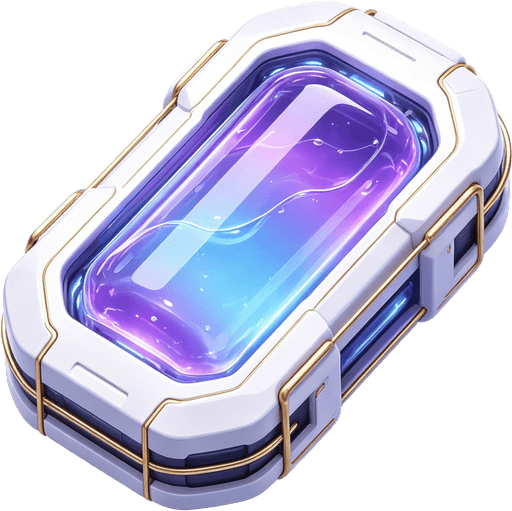
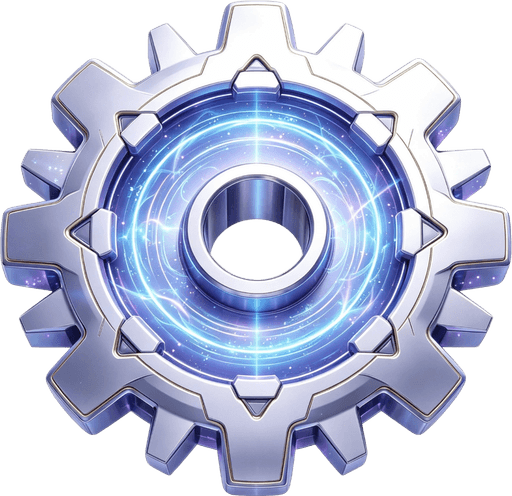
折叠菜单换真玻璃质感、新增贴图接入(翼装/体力/晶石/金币/词条石)、商店铺满12槽位、词条石改版
- 左上角折叠菜单改用真正的半透明玻璃渐变面板(不再是近乎不透明的黑底),4个入口各自一个强调色,
  风格统一但便于区分
- 接入用户提供的新贴图(D:\minigame\TemporaryResources,已用 sharp 压缩到 512px/60-130KB,
  和现有机装图标同一量级):翼装强化槽位图标替换;新增体力/晶石/金币/体力补给包/四种词条石
  贴图,资源条和商店/装备页图标全部换成实图,贴图未加载完时仍有原来的简笔画兜底
- 增长石改名祈福石,价格 60→500 晶石;新增解锁石(30晶石);体力补给包 50→1 金币
- 词条石"锁定"拆成锁定石/解锁石两个独立方向——锁定石只能锁未锁定的一条,解锁石只能解已锁定的
  一条,状态不对直接失败不扣石头;装备详情页对应新增第4个词条石槽位,选中解锁石时高亮"已锁定"
  的副属性图标作为可点目标(和锁定石反过来)
- 兑换码新增 icodex(1000晶石)/ clodex(10金币),沿用 iclaude 同一套可重复兑换机制
- 商店货架固定摆满 4列×3行=12 个槽位,没有商品的位置显示"敬请期待"虚线空槽,不响应点击

diff --git a/src/game.js b/src/game.js
@@ -190,10 +190,11 @@ const game = {
   // RG13:词条石——不再点了立刻生效,改成"先选中(3个方槽,和商店同一套视觉)→下方出描述→确认使用才真正操作"。
   //   锁定石比较特殊,它的"操作对象"是某一条具体的副属性,选中锁定石后副属性行的锁图标才会变成可点的目标,
   //   点哪条就对哪条生效(那一下点击本身就是确认,不需要再多一次"确认使用")。
-  equipStoneKeys() { return ["reroll", "lock", "growth"]; },
+  // RG14:新增解锁石后是4种词条石,4个方槽单行排(比3槽版本更窄一些,字号跟着缩小,详见 drawEquipPicker)
+  equipStoneKeys() { return ["reroll", "lock", "unlock", "growth"]; },
   equipStoneSlotRect(i) {
-    const pane = this.equipDetailPaneRect(), y = this.equipDetailStoneRowY(), slotW = (pane.w - 16) / 3;
-    return { x: pane.x + i * (slotW + 8), y, w: slotW, h: 56 };
+    const pane = this.equipDetailPaneRect(), y = this.equipDetailStoneRowY(), gap = 6, slotW = (pane.w - gap * 3) / 4;
+    return { x: pane.x + i * (slotW + gap), y, w: slotW, h: 56 };
   },
   equipStoneDescRect() { const pane = this.equipDetailPaneRect(), y = this.equipDetailStoneRowY(); return { x: pane.x, y: y + 64, w: pane.w, h: 44 }; },
   equipStoneConfirmRect() { const d = this.equipStoneDescRect(); return { x: d.x, y: d.y + d.h + 4, w: d.w, h: 36 }; },
@@ -224,14 +225,23 @@ const game = {
         return;
       }
       if (this._gearStoneSel === "growth" && inR(this.equipStoneConfirmRect())) {
-        this._gearStoneMsg = this.gearApplyGrowth(selInst.id) ? "副属性数值已提升" : "增长石不足";
+        this._gearStoneMsg = this.gearApplyGrowth(selInst.id) ? "副属性数值已提升" : "祈福石不足";
         this._gearStoneSel = null;
         return;
       }
       if (this._gearStoneSel === "lock") {
         for (let si = 0; si < selInst.subs.length; si++) {
           if (inR(this.equipDetailSubLockRect(si))) {
-            this._gearStoneMsg = this.gearToggleSubLock(selInst.id, si) ? (selInst.subs[si].locked ? "已锁定" : "已解锁") : "锁定石不足";
+            this._gearStoneMsg = this.gearLockSub(selInst.id, si) ? "已锁定" : (selInst.subs[si].locked ? "这条已经是锁定状态" : "锁定石不足");
+            this._gearStoneSel = null;
+            return;
+          }
+        }
+      }
+      if (this._gearStoneSel === "unlock") {
+        for (let si = 0; si < selInst.subs.length; si++) {
+          if (inR(this.equipDetailSubLockRect(si))) {
+            this._gearStoneMsg = this.gearUnlockSub(selInst.id, si) ? "已解锁" : (!selInst.subs[si].locked ? "这条本来就没锁定" : "解锁石不足");
             this._gearStoneSel = null;
             return;
           }
@@ -1153,11 +1163,19 @@ const game = {
     Settings.save();
     return true;
   },
-  // RG12:锁定石——切换某条副属性的锁定态(锁定后 gearApplyReroll 会跳过它),消耗1件不分锁定/解锁方向。
-  gearToggleSubLock(instanceId, subIdx) {
-    const inst = this.gearInstanceById(instanceId); if (!inst || !inst.subs[subIdx]) return false;
+  // RG14:锁定石/解锁石拆成两个独立方向——锁定石只能锁未锁定的一条,解锁石只能解已锁定的一条,
+  //   对象状态不对(比如拿锁定石去点一条已经锁定的)直接失败不扣石头。
+  gearLockSub(instanceId, subIdx) {
+    const inst = this.gearInstanceById(instanceId); if (!inst || !inst.subs[subIdx] || inst.subs[subIdx].locked) return false;
     if (!this.gearStoneConsume("lock", 1)) return false;
-    inst.subs[subIdx].locked = !inst.subs[subIdx].locked;
+    inst.subs[subIdx].locked = true;
+    Settings.save();
+    return true;
+  },
+  gearUnlockSub(instanceId, subIdx) {
+    const inst = this.gearInstanceById(instanceId); if (!inst || !inst.subs[subIdx] || !inst.subs[subIdx].locked) return false;
+    if (!this.gearStoneConsume("unlock", 1)) return false;
+    inst.subs[subIdx].locked = false;
     Settings.save();
     return true;
   },
@@ -1371,18 +1389,20 @@ const game = {
     for (const s of CONFIG.gearSlots) this.gearAward(s.key, "t3");
     Settings.set("gearStarterGranted", true);
   },
-  // RG9:兑换码——由游戏内的"兑换码"页面调用(见 drawRedeemCode),不再用浏览器 window.prompt;不区分大小写/
-  //   首尾空格;命中 "iclaude" 直接发一整套魂能(t3)装备,不做"只能领一次"的限制(用户明确要求可重复获取),
-  //   每次都是全新 roll 的8件,拿来囤重铸材料也说得通。返回是否兑换成功,调用方(UI)自己决定怎么提示。
+  // RG14:兑换码——由游戏内的"兑换码"页面调用(见 RedeemUI),不再用浏览器 window.prompt;不区分大小写/首尾空格;
+  //   命中表按 kind 发放(装备全套 / 晶石 / 金币),都不限制"只能领一次"(用户明确要求可重复获取)。
+  //   返回是否兑换成功,调用方(UI)自己决定怎么提示。
   redeemGearCode(raw) {
     const code = (raw || "").trim().toLowerCase();
     if (!code) return false;
-    if (code === "iclaude") {
-      for (const s of CONFIG.gearSlots) this.gearAward(s.key, "t3");
-      Sound.powerup(); Haptics.powerup();
-      return true;
-    }
-    return false;
+    const grant = CONFIG.redeemCodes[code];
+    if (!grant) return false;
+    if (grant.kind === "gearSet") { for (const s of CONFIG.gearSlots) this.gearAward(s.key, grant.tier); }
+    else if (grant.kind === "crystals") this.crystalsAward(grant.amount);
+    else if (grant.kind === "gold") this.goldAward(grant.amount);
+    else return false;
+    Sound.powerup(); Haptics.powerup();
+    return true;
   },
   // RG9:某槽位仓库里的全部实例,按品阶从高到低、同品阶内主属性从高到低排序——最好的装备排最前面,
   //   仓库/装备弹窗数量多的时候玩家一眼就能看到"我这个槽位最强的是哪件"
@@ -3592,23 +3612,34 @@ const game = {
     ctx.fillStyle = o.color || "#fff"; ctx.font = "bold " + (o.font || 30) + "px 'Segoe UI', sans-serif";
     ctx.fillText(o.fallback, cx, cy + (o.fallbackBaselineAdj != null ? o.fallbackBaselineAdj : 10));
   },
-  drawTitleSmallButton(ctx, r, iconKey, fallbackLabel, text) {
+  drawTitleSmallButton(ctx, r, iconKey, fallbackLabel, text, color = "#adb5bd") {
     const icon = ImageAssets.title("icon-" + iconKey);
-    UI.button(ctx, r, { label: icon ? text : fallbackLabel, color: "#adb5bd", font: 15, radius: 10 });
+    UI.button(ctx, r, { label: icon ? text : fallbackLabel, color, font: 15, radius: 10 });
     if (icon) ImageAssets.draw(ctx, icon, r.x + 21, r.y + r.h / 2, 20);
   },
-  // RG13:折叠菜单——收起态只有一个 ☰ 图标;展开态在它正下方叠一块半透明面板,里面竖排4个小按钮(图鉴/帮助/设置/商店)
+  // RG14:每个菜单项各自一个强调色(风格统一都走玻璃按钮,颜色区分开更好认),drawTitleMenu 展开面板/按钮都按这个取色
+  titleMenuItemColors() { return { codex: "#4dabf7", help: "#38d9a9", settings: "#adb5bd", shop: "#cc5de8" }; },
+  // RG13:折叠菜单——收起态只有一个 ☰ 图标;展开态在它正下方叠一块透明玻璃面板,里面竖排4个小按钮(图鉴/帮助/设置/商店)
+  // RG14:面板改成真正的"玻璃"质感——不再垫近乎不透明的黑底,改用和 UI.panel 同一路的渐变+高光+描边,
+  //   半透明到能隐约看见背后的开屏插画,和其它玻璃按钮(UI.button 的非 active 态)风格统一。
   drawTitleMenu(ctx) {
     const t = this.titleMenuToggleRect();
     UI.button(ctx, t, { label: this._titleMenuOpen ? "✕" : "☰", color: this._titleMenuOpen ? "#ff922b" : "#adb5bd", active: this._titleMenuOpen, font: 20, radius: 12 });
     if (!this._titleMenuOpen) return;
     const panel = this.titleMenuPanelRect();
-    UI.roundRect(ctx, panel.x, panel.y, panel.w, panel.h, 14); ctx.fillStyle = "rgba(8,12,20,.9)"; ctx.fill();
-    UI.panel(ctx, panel.x, panel.y, panel.w, panel.h, 14, { stroke: "rgba(255,255,255,.2)" });
-    this.titleMenuItemDefs().forEach(([key, fallbackLabel, text], i) => this.drawTitleSmallButton(ctx, this.titleMenuItemRect(i), key, fallbackLabel, text));
+    ctx.save(); ctx.shadowColor = "rgba(0,0,0,.35)"; ctx.shadowBlur = 18; ctx.shadowOffsetY = 6;
+    const g = ctx.createLinearGradient(0, panel.y, 0, panel.y + panel.h);
+    g.addColorStop(0, "rgba(255,255,255,.12)"); g.addColorStop(0.4, "rgba(20,28,42,.42)"); g.addColorStop(1, "rgba(8,12,20,.58)");
+    UI.roundRect(ctx, panel.x, panel.y, panel.w, panel.h, 14); ctx.fillStyle = g; ctx.fill();
+    ctx.restore();
+    UI.panel(ctx, panel.x, panel.y, panel.w, panel.h, 14, { top: "rgba(255,255,255,.1)", bottom: "rgba(255,255,255,.02)", stroke: "rgba(255,255,255,.25)" });
+    const colors = this.titleMenuItemColors();
+    this.titleMenuItemDefs().forEach(([key, fallbackLabel, text], i) => this.drawTitleSmallButton(ctx, this.titleMenuItemRect(i), key, fallbackLabel, text, colors[key]));
   },
-  // RG13:体力/晶石/金币资源条——简化占位图标(闪电/菱形/圆币),等确认好显示效果再考虑要不要换真贴图
+  // RG14:体力/晶石/金币资源条——实图优先(ImageAssets.economy),没加载完时退回简化占位图标(闪电/菱形/圆币)
   drawEconomyIcon(ctx, x, y, r, kind, color) {
+    const img = ImageAssets.economy(kind);
+    if (img && ImageAssets.draw(ctx, img, x, y, r * 2.4)) return;
     ctx.save(); ctx.translate(x, y); ctx.strokeStyle = color; ctx.fillStyle = UI.rgba(color, .3); ctx.lineWidth = 2;
     if (kind === "stamina") {
       ctx.beginPath(); ctx.moveTo(-r * 0.15, -r); ctx.lineTo(-r * 0.55, r * 0.15); ctx.lineTo(-r * 0.05, r * 0.15); ctx.lineTo(-r * 0.35, r); ctx.lineTo(r * 0.55, -r * 0.1); ctx.lineTo(r * 0.05, -r * 0.1); ctx.closePath();
@@ -4012,18 +4043,21 @@ const game = {
       let y = pane.y + 76;
       ctx.fillStyle = "#868e96"; ctx.font = "11px 'Segoe UI', sans-serif"; ctx.fillText("主属性", pane.x, y); y += 20;
       this.drawGearStatRow(ctx, pane.x, y, pane.w, rg.main, true); y += 30;
-      const lockMode = this._gearStoneSel === "lock";
+      // RG14:选中锁定石时高亮"可以锁"的(未锁定)那些图标,选中解锁石时高亮"可以解"的(已锁定)那些——
+      //   两种选中态用各自石头的主题色提示,不是同一种蓝
+      const lockMode = this._gearStoneSel === "lock", unlockMode = this._gearStoneSel === "unlock";
+      const pickColor = lockMode ? "#ffd43b" : (unlockMode ? "#74c0fc" : null);
       ctx.fillStyle = "#868e96"; ctx.font = "11px 'Segoe UI', sans-serif";
-      ctx.fillText(lockMode ? "副属性(选中锁定石,点图标锁定/解锁)" : "副属性", pane.x, y); y += 20;
-      // RG13:每条副属性左侧一个小锁图标——只有选中了锁定石才能点(平时只是状态展示,防止误触浪费石头)
+      ctx.fillText(lockMode ? "副属性(点未锁定的图标进行锁定)" : unlockMode ? "副属性(点已锁定的图标进行解锁)" : "副属性", pane.x, y); y += 20;
+      // RG13:每条副属性左侧一个小锁图标——只有选中了锁定/解锁石才能点对应状态的目标(平时只是状态展示,防止误触浪费石头)
       rg.subs.forEach((s, si) => {
         const lockRect = this.equipDetailSubLockRect(si), locked = !!selInst.subs[si].locked;
         const lcx = lockRect.x + lockRect.w / 2, lcy = lockRect.y + lockRect.h / 2 + 2;
+        const isTarget = (lockMode && !locked) || (unlockMode && locked);
         ctx.save();
-        const lockColor = locked ? "#ffd43b" : (lockMode ? "#4dabf7" : "rgba(255,255,255,.4)");
-        ctx.strokeStyle = lockColor; ctx.lineWidth = 1.6;
-        ctx.fillStyle = locked ? UI.rgba("#ffd43b", .3) : (lockMode ? UI.rgba("#4dabf7", .2) : "rgba(255,255,255,.06)");
-        if (lockMode) { const pulse = 0.5 + Math.sin(this.titleT * 5) * 0.5; ctx.shadowColor = "#4dabf7"; ctx.shadowBlur = 4 + pulse * 4; }
+        ctx.strokeStyle = locked ? "#ffd43b" : (isTarget ? pickColor : "rgba(255,255,255,.4)"); ctx.lineWidth = 1.6;
+        ctx.fillStyle = locked ? UI.rgba("#ffd43b", .3) : (isTarget ? UI.rgba(pickColor, .2) : "rgba(255,255,255,.06)");
+        if (isTarget) { const pulse = 0.5 + Math.sin(this.titleT * 5) * 0.5; ctx.shadowColor = pickColor; ctx.shadowBlur = 4 + pulse * 4; }
         UI.roundRect(ctx, lcx - 6, lcy - 5, 12, 9, 2); ctx.fill(); ctx.stroke();
         ctx.beginPath(); ctx.arc(lcx, lcy - 5, 4, Math.PI, 0); ctx.stroke();
         ctx.restore();
@@ -4044,7 +4078,7 @@ const game = {
         const def = CONFIG.gearStoneDefs[this._gearStoneSel];
         ctx.fillStyle = def.color; ctx.font = "11px 'Segoe UI', sans-serif";
         UI.wrapText(ctx, def.desc, descR.w, 2).forEach((line, li) => ctx.fillText(line, descR.x, descR.y + 14 + li * 16));
-        if (this._gearStoneSel !== "lock") {
+        if (this._gearStoneSel !== "lock" && this._gearStoneSel !== "unlock") {
           const canUse = this.gearStoneCount(this._gearStoneSel) > 0;
           UI.button(ctx, this.equipStoneConfirmRect(), { label: "确认使用", color: def.color, active: canUse, font: 13, radius: 8 });
         }
@@ -4706,26 +4740,37 @@ const game = {
   // RG13:标题/资源条/tab 整体下移让位——资源条挪到标题正下方、tab 再挪到资源条下方,不再叠在一起
   shopTabRect(i) { const w = 140, gap = 12, x0 = CONFIG.WIDTH / 2 - (w * 2 + gap) / 2; return { x: x0 + i * (w + gap), y: 96, w, h: 36 }; },
   shopCurrentList() { return this._shopTab === "gold" ? CONFIG.shopItems.gold : CONFIG.shopItems.crystal; },
-  shopGridRect() { return { x: 20, y: 152, w: CONFIG.WIDTH - 40, h: 156 }; },
-  shopSlotRect(i) {
-    const g = this.shopGridRect(), cols = 3, slotW = 140, gap = (g.w - cols * slotW) / (cols - 1);
-    const col = i % cols, row = Math.floor(i / cols);
-    return { x: g.x + col * (slotW + gap), y: g.y + row * 156, w: slotW, h: 140 };
+  // RG14:货架先摆够 4列×3行=12 个槽位(用户明确要求"每行至少4个、至少3行"),商品数不够12就补空槽,
+  //   后续加新商品自动填进空位,布局代码不用再改。
+  SHOP_GRID_COLS: 4, SHOP_GRID_ROWS: 3,
+  shopGridSlotCount() { return this.SHOP_GRID_COLS * this.SHOP_GRID_ROWS; },
+  shopGridRect() {
+    const cols = this.SHOP_GRID_COLS, rows = this.SHOP_GRID_ROWS, slotW = 117, slotH = 118, gap = 9;
+    const w = cols * slotW + (cols - 1) * gap;
+    return { x: CONFIG.WIDTH / 2 - w / 2, y: 152, w, h: rows * slotH + (rows - 1) * gap, cols, rows, slotW, slotH, gap };
   },
-  shopDetailRect() { const g = this.shopGridRect(); return { x: 20, y: g.y + g.h + 20, w: CONFIG.WIDTH - 40, h: 300 }; },
+  shopSlotRect(i) {
+    const g = this.shopGridRect(), col = i % g.cols, row = Math.floor(i / g.cols);
+    return { x: g.x + col * (g.slotW + g.gap), y: g.y + row * (g.slotH + g.gap), w: g.slotW, h: g.slotH };
+  },
+  shopDetailRect() { const g = this.shopGridRect(); return { x: 20, y: g.y + g.h + 20, w: CONFIG.WIDTH - 40, h: 260 }; },
   shopActionRect(i) {
     const d = this.shopDetailRect(), w = (d.w - 20) / 3, h = 46, y = d.y + d.h - h - 16;
     return { x: d.x + i * (w + 10), y, w, h };
   },
-  // RG12/RG13:占位图标——三种石头分别用菱形/锁形/向上箭头简笔画区分,体力包用一个闪电,和贴图上线前的"简化模型"要求一致
+  // RG14:实图优先——体力补给包/四种词条石都已有正式贴图(ImageAssets.economy/stone),画得出来就直接画;
+  //   贴图还没加载完/加载失败时退回原来的简笔画占位(菱形/锁形/箭头/闪电),不会出现空白图标。
   drawShopIcon(ctx, x, y, r, item) {
+    const img = item.kind === "stamina" ? ImageAssets.economy("stamina-pack")
+      : item.stoneKey ? ImageAssets.stone(item.stoneKey) : null;
+    if (img && ImageAssets.draw(ctx, img, x, y, r * 2.3)) return;
     ctx.save(); ctx.translate(x, y); ctx.strokeStyle = item.color; ctx.fillStyle = UI.rgba(item.color, .25); ctx.lineWidth = 2.5;
     if (item.kind === "stamina") {
       ctx.beginPath(); ctx.moveTo(-r * 0.15, -r); ctx.lineTo(-r * 0.55, r * 0.15); ctx.lineTo(-r * 0.05, r * 0.15); ctx.lineTo(-r * 0.35, r); ctx.lineTo(r * 0.55, -r * 0.1); ctx.lineTo(r * 0.05, -r * 0.1); ctx.closePath();
       ctx.fill(); ctx.stroke();
     } else if (item.stoneKey === "reroll") {
       ctx.beginPath(); ctx.moveTo(0, -r); ctx.lineTo(r, 0); ctx.lineTo(0, r); ctx.lineTo(-r, 0); ctx.closePath(); ctx.fill(); ctx.stroke();
-    } else if (item.stoneKey === "lock") {
+    } else if (item.stoneKey === "lock" || item.stoneKey === "unlock") {
       UI.roundRect(ctx, -r * 0.6, -r * 0.1, r * 1.2, r * 0.9, 4); ctx.fill(); ctx.stroke();
       ctx.beginPath(); ctx.arc(0, -r * 0.25, r * 0.4, Math.PI, 0); ctx.stroke();
     } else if (item.stoneKey === "growth") {
@@ -4744,18 +4789,31 @@ const game = {
     ctx.textAlign = "center";
     UI.button(ctx, this.shopTabRect(0), { label: "晶石商店", color: "#7bdfff", active: this._shopTab !== "gold", font: 14, radius: 10 });
     UI.button(ctx, this.shopTabRect(1), { label: "金币商店", color: "#ffd43b", active: this._shopTab === "gold", font: 14, radius: 10 });
-    // 商品格——方形槽位,图标+名称+价格,选中描边高亮
+    // RG14:商品格固定摆满 4×3=12 个槽位——有商品的正常显示(图标/名称/价格/持有),没有商品的画成空槽虚线框占位
+    //   (预告"这里以后会上新东西"),不响应点击。
     const list = this.shopCurrentList();
-    list.forEach((item, i) => {
-      const r = this.shopSlotRect(i), sel = this._shopSelKey === item.key;
+    for (let i = 0; i < this.shopGridSlotCount(); i++) {
+      const r = this.shopSlotRect(i), item = list[i];
+      if (!item) {
+        ctx.save(); ctx.strokeStyle = "rgba(255,255,255,.15)"; ctx.lineWidth = 1.5; ctx.setLineDash([4, 5]);
+        UI.roundRect(ctx, r.x, r.y, r.w, r.h, 12); ctx.stroke(); ctx.setLineDash([]);
+        ctx.beginPath(); ctx.arc(r.x + r.w / 2, r.y + r.h / 2 - 8, 14, 0, Math.PI * 2); ctx.strokeStyle = "rgba(255,255,255,.18)"; ctx.stroke();
+        ctx.font = "18px 'Segoe UI', sans-serif"; ctx.fillStyle = "rgba(255,255,255,.25)"; ctx.textAlign = "center";
+        ctx.fillText("?", r.x + r.w / 2, r.y + r.h / 2 - 2);
+        ctx.restore();
+        ctx.textAlign = "center"; ctx.fillStyle = "rgba(255,255,255,.22)"; ctx.font = "11px 'Segoe UI', sans-serif";
+        ctx.fillText("敬请期待", r.x + r.w / 2, r.y + r.h / 2 + 24);
+        continue;
+      }
+      const sel = this._shopSelKey === item.key;
       UI.panel(ctx, r.x, r.y, r.w, r.h, 12, { accent: item.color });
       if (sel) { ctx.save(); ctx.strokeStyle = item.color; ctx.lineWidth = 2.5; UI.roundRect(ctx, r.x, r.y, r.w, r.h, 12); ctx.stroke(); ctx.restore(); }
-      this.drawShopIcon(ctx, r.x + r.w / 2, r.y + 44, 26, item);
+      this.drawShopIcon(ctx, r.x + r.w / 2, r.y + 36, 20, item);
       ctx.textAlign = "center";
-      ctx.fillStyle = "#fff"; ctx.font = "bold 14px 'Segoe UI', sans-serif"; ctx.fillText(item.name, r.x + r.w / 2, r.y + 90);
-      ctx.fillStyle = item.color; ctx.font = "12px 'Segoe UI', sans-serif"; ctx.fillText(item.price + (item.currency === "gold" ? " 金币" : " 晶石"), r.x + r.w / 2, r.y + 110);
-      if (item.kind === "stone") { ctx.fillStyle = "#868e96"; ctx.font = "10px 'Segoe UI', sans-serif"; ctx.fillText("持有 ×" + this.gearStoneCount(item.stoneKey), r.x + r.w / 2, r.y + 126); }
-    });
+      ctx.fillStyle = "#fff"; ctx.font = "bold 13px 'Segoe UI', sans-serif"; ctx.fillText(item.name, r.x + r.w / 2, r.y + 76);
+      ctx.fillStyle = item.color; ctx.font = "11px 'Segoe UI', sans-serif"; ctx.fillText(item.price + (item.currency === "gold" ? " 金币" : " 晶石"), r.x + r.w / 2, r.y + 94);
+      if (item.kind === "stone") { ctx.fillStyle = "#868e96"; ctx.font = "9px 'Segoe UI', sans-serif"; ctx.fillText("持有 ×" + this.gearStoneCount(item.stoneKey), r.x + r.w / 2, r.y + 108); }
+    }
     // 下半详情区
     const d = this.shopDetailRect(), sel = this._shopSelKey ? this.shopFindItem(this._shopSelKey) : null;
     UI.panel(ctx, d.x, d.y, d.w, d.h, 14, { stroke: "rgba(255,255,255,.18)" });

diff --git a/src/config.js b/src/config.js
@@ -504,23 +504,34 @@ const CONFIG = {
     crystalBase: 15, crystalPerWorld: 3, crystalBossMult: 1.5,
     staminaMax: 100, staminaRegenMinutes: 4, staminaCostLevel: 8, staminaCostSweep: 8,
   },
-  // RG13:商店按货币分两个货架——晶石商店3种刷新石,金币商店目前只有体力补给包(后续再慢慢上架)。
+  // RG14:商店按货币分两个货架——晶石商店4种词条石,金币商店目前只有体力补给包(后续再慢慢上架)。
   //   每件都标 currency 供 game.shopBuy() 判断扣哪种货币。
   shopBatchSize: 5,   // "批量购买"一次最多买几件(实际会按余额封顶,买不够5件就买能买得起的数量)
+  // RG14:货架至少留够 4列×3行=12 个槽位(商店页要求"没有商品的地方显示为空槽"),这里的数组长度不用凑够12——
+  //   不足的由 UI 补空槽,后续往这两个数组里加新条目就会自动填进空位,不用改布局代码。
   shopItems: {
     crystal: [
       { key: "rerollStone", kind: "stone", stoneKey: "reroll", price: 40, currency: "crystals", name: "刷新石", desc: "随机刷新所选装备的3条副属性数值(锁定的不受影响)", color: "#4dabf7" },
-      { key: "lockStone", kind: "stone", stoneKey: "lock", price: 30, currency: "crystals", name: "锁定石", desc: "锁定/解锁一条副属性,锁定后刷新石不会改动它", color: "#ffd43b" },
-      { key: "growthStone", kind: "stone", stoneKey: "growth", price: 60, currency: "crystals", name: "增长石", desc: "让所选装备的3条副属性数值全部提升一截", color: "#51cf66" },
+      { key: "lockStone", kind: "stone", stoneKey: "lock", price: 30, currency: "crystals", name: "锁定石", desc: "锁定一条未锁定的副属性,锁定后刷新石不会改动它", color: "#ffd43b" },
+      { key: "unlockStone", kind: "stone", stoneKey: "unlock", price: 30, currency: "crystals", name: "解锁石", desc: "解锁一条已锁定的副属性", color: "#74c0fc" },
+      { key: "growthStone", kind: "stone", stoneKey: "growth", price: 500, currency: "crystals", name: "祈福石", desc: "让所选装备的3条副属性数值全部提升一截", color: "#51cf66" },
     ],
     gold: [
-      { key: "stamina30", kind: "stamina", amount: 30, price: 50, currency: "gold", name: "体力补给包", desc: "立即恢复30点体力", color: "#38d9a9" },
+      { key: "stamina30", kind: "stamina", amount: 30, price: 1, currency: "gold", name: "体力补给包", desc: "立即恢复30点体力", color: "#38d9a9" },
     ],
   },
   gearStoneDefs: {
     reroll: { name: "刷新石", color: "#4dabf7", desc: "随机刷新这件装备所有未锁定副属性的数值(类型不变,数值在原区间内重新抽)" },
-    lock:   { name: "锁定石", color: "#ffd43b", desc: "选中后点任意一条副属性的锁形图标,切换它的锁定状态(锁定后刷新石不会碰它)" },
-    growth: { name: "增长石", color: "#51cf66", desc: "让这件装备所有副属性数值一律朝区间上限推进一截" },
+    lock:   { name: "锁定石", color: "#ffd43b", desc: "选中后点一条未锁定的副属性的锁形图标,把它锁定(锁定后刷新石不会碰它)" },
+    unlock: { name: "解锁石", color: "#74c0fc", desc: "选中后点一条已锁定的副属性的锁形图标,把它解锁" },
+    growth: { name: "祈福石", color: "#51cf66", desc: "让这件装备所有副属性数值一律朝区间上限推进一截" },
+  },
+  // RG14:兑换码——键统一小写(redeemGearCode 会先转小写再查表),命中即按 grant 的字段发放对应货币/数量,
+  //   都不限制"只能领一次"(和已有的 iclaude 一样可重复兑换)
+  redeemCodes: {
+    iclaude: { kind: "gearSet", tier: "t3" },   // 一整套魂能装备
+    icodex: { kind: "crystals", amount: 1000 },
+    clodex: { kind: "gold", amount: 10 },
   },
 
   // 难度档:dmgMult 敌方伤害倍率 / fireMult 敌方射击间隔倍率(>1 更慢=更易)

diff --git a/src/assets.js b/src/assets.js
@@ -168,6 +168,8 @@ const ImageAssets = {
     );
     // RG2:机装槽位图标——按用户要求排在飞机机身贴图之后加载(数组顺序即请求优先级,飞机模型看得见摸得着,机装要进机型选择页才用得到)
     if (typeof CONFIG !== "undefined" && CONFIG.gearSlots) for (const s of CONFIG.gearSlots) srcs.push("assets/images/ui/gear/icon-gear-" + s.key + ".png");
+    // RG14:经济资源条(体力/晶石/金币)首页一进来就常驻显示,词条石图标在装备页/商店也很快用到——都算常用层
+    srcs.push(...this.economyIconSrcs, ...this.stoneIconSrcs);
     srcs.push(this.ageRatingSrc);   // GG25:适龄提示图标——常用层,和其余首屏必需素材一起统计进加载进度
     return Array.from(new Set(srcs)).filter(Boolean);
   },
@@ -332,6 +334,22 @@ const ImageAssets = {
   // RG2:机装槽位图标——文件名直接用槽位 key(wing/engine/...),不走 slug(),槽位 key 本身已经是合法文件名字符
   gear(slotKey) { return this.ready("assets/images/ui/gear/icon-gear-" + slotKey + ".png"); },
   uiEvent(key) { return this.ready(this.manifest.event[this.slug(key)]); },
+  // RG14:经济资源图标(体力/晶石/金币/体力补给包)+ 词条石图标(刷新/锁定/解锁/祈福)——固定小图集,和机装图标
+  //   同一套"直接常量路径"处理方式,不走 manifest 树(数量少,没必要建子分类)
+  economyIconSrcs: [
+    "assets/images/ui/economy/icon-economy-stamina.png",
+    "assets/images/ui/economy/icon-economy-crystal.png",
+    "assets/images/ui/economy/icon-economy-gold.png",
+    "assets/images/ui/economy/icon-economy-stamina-pack.png",
+  ],
+  stoneIconSrcs: [
+    "assets/images/ui/stones/icon-stone-reroll.png",
+    "assets/images/ui/stones/icon-stone-lock.png",
+    "assets/images/ui/stones/icon-stone-unlock.png",
+    "assets/images/ui/stones/icon-stone-growth.png",
+  ],
+  economy(key) { return this.ready("assets/images/ui/economy/icon-economy-" + key + ".png"); },
+  stone(key) { return this.ready("assets/images/ui/stones/icon-stone-" + key + ".png"); },
   draw(ctx, img, x, y, size, rotation = 0) {
     if (!img) return false;
     const box = this.bounds(img) || { x: 0, y: 0, w: img.naturalWidth, h: img.naturalHeight };

diff --git a/index.html b/index.html
@@ -12,8 +12,8 @@
   <canvas id="game"></canvas>
 </div>
 
-  <script src="src/config.js?v=20260711-economy2-v1"></script>
-  <script src="src/assets.js?v=20260711-merge-v1"></script>
+  <script src="src/config.js?v=20260711-economy3-v1"></script>
+  <script src="src/assets.js?v=20260711-economy3-v1"></script>
   <script src="src/services.js?v=20260711-economy2-v1"></script>
   <script src="src/interference.js?v=20260706-endless-lite-v4"></script>
   <script src="src/canvas.js?v=20260711-merge-v1"></script>
@@ -21,7 +21,7 @@
   <script src="src/core.js?v=20260710-gear-v4"></script>
   <script src="src/entities.js?v=20260711-merge-v1"></script>
   <script src="src/levels.js?v=20260706-endless-lite-v4"></script>
-  <script src="src/game.js?v=20260711-economy2-v1"></script>
+  <script src="src/game.js?v=20260711-economy3-v1"></script>
   <script src="src/multiplayer.js?v=20260709-mpdrag-v1"></script>
   <script src="src/redeem-ui.js?v=20260711-gear4-v1"></script>
   <script src="src/main.js?v=20260711-gear2-v1"></script>

diff --git a/空中突袭.html b/空中突袭.html
@@ -12,8 +12,8 @@
   <canvas id="game"></canvas>
 </div>
 
-  <script src="src/config.js?v=20260711-economy2-v1"></script>
-  <script src="src/assets.js?v=20260711-merge-v1"></script>
+  <script src="src/config.js?v=20260711-economy3-v1"></script>
+  <script src="src/assets.js?v=20260711-economy3-v1"></script>
   <script src="src/services.js?v=20260711-economy2-v1"></script>
   <script src="src/interference.js?v=20260706-endless-lite-v4"></script>
   <script src="src/canvas.js?v=20260711-merge-v1"></script>
@@ -21,7 +21,7 @@
   <script src="src/core.js?v=20260710-gear-v4"></script>
   <script src="src/entities.js?v=20260711-merge-v1"></script>
   <script src="src/levels.js?v=20260706-endless-lite-v4"></script>
-  <script src="src/game.js?v=20260711-economy2-v1"></script>
+  <script src="src/game.js?v=20260711-economy3-v1"></script>
   <script src="src/multiplayer.js?v=20260709-mpdrag-v1"></script>
   <script src="src/redeem-ui.js?v=20260711-gear4-v1"></script>
   <script src="src/main.js?v=20260711-gear2-v1"></script>